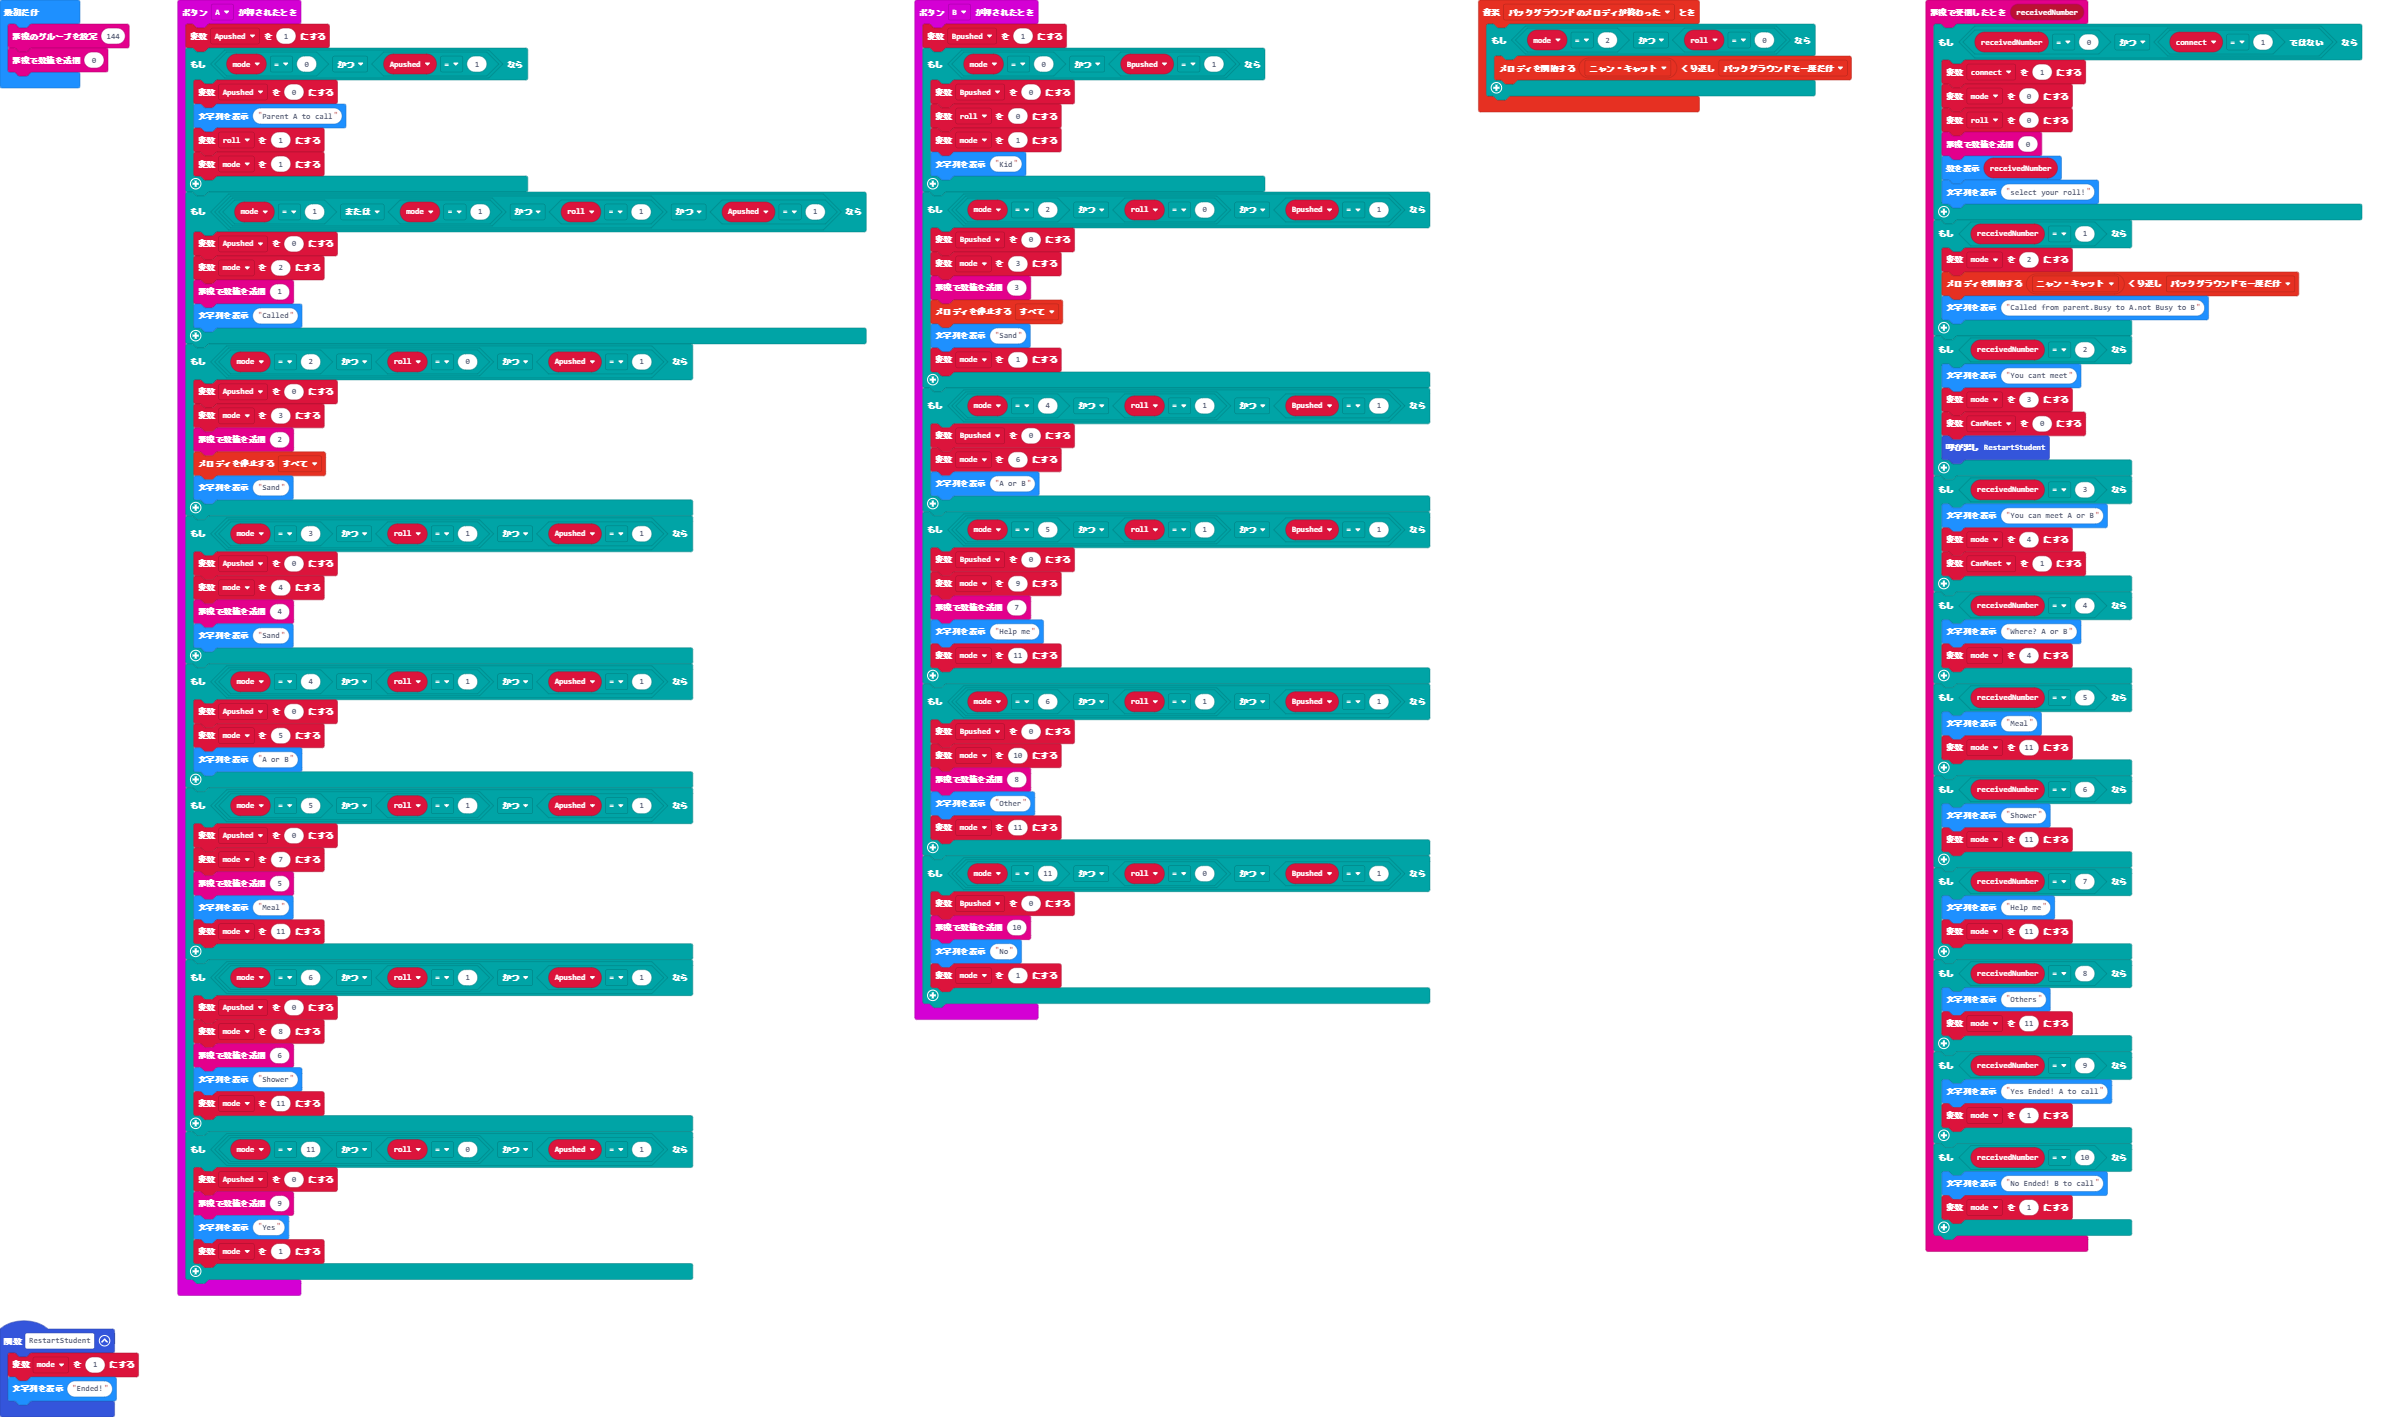
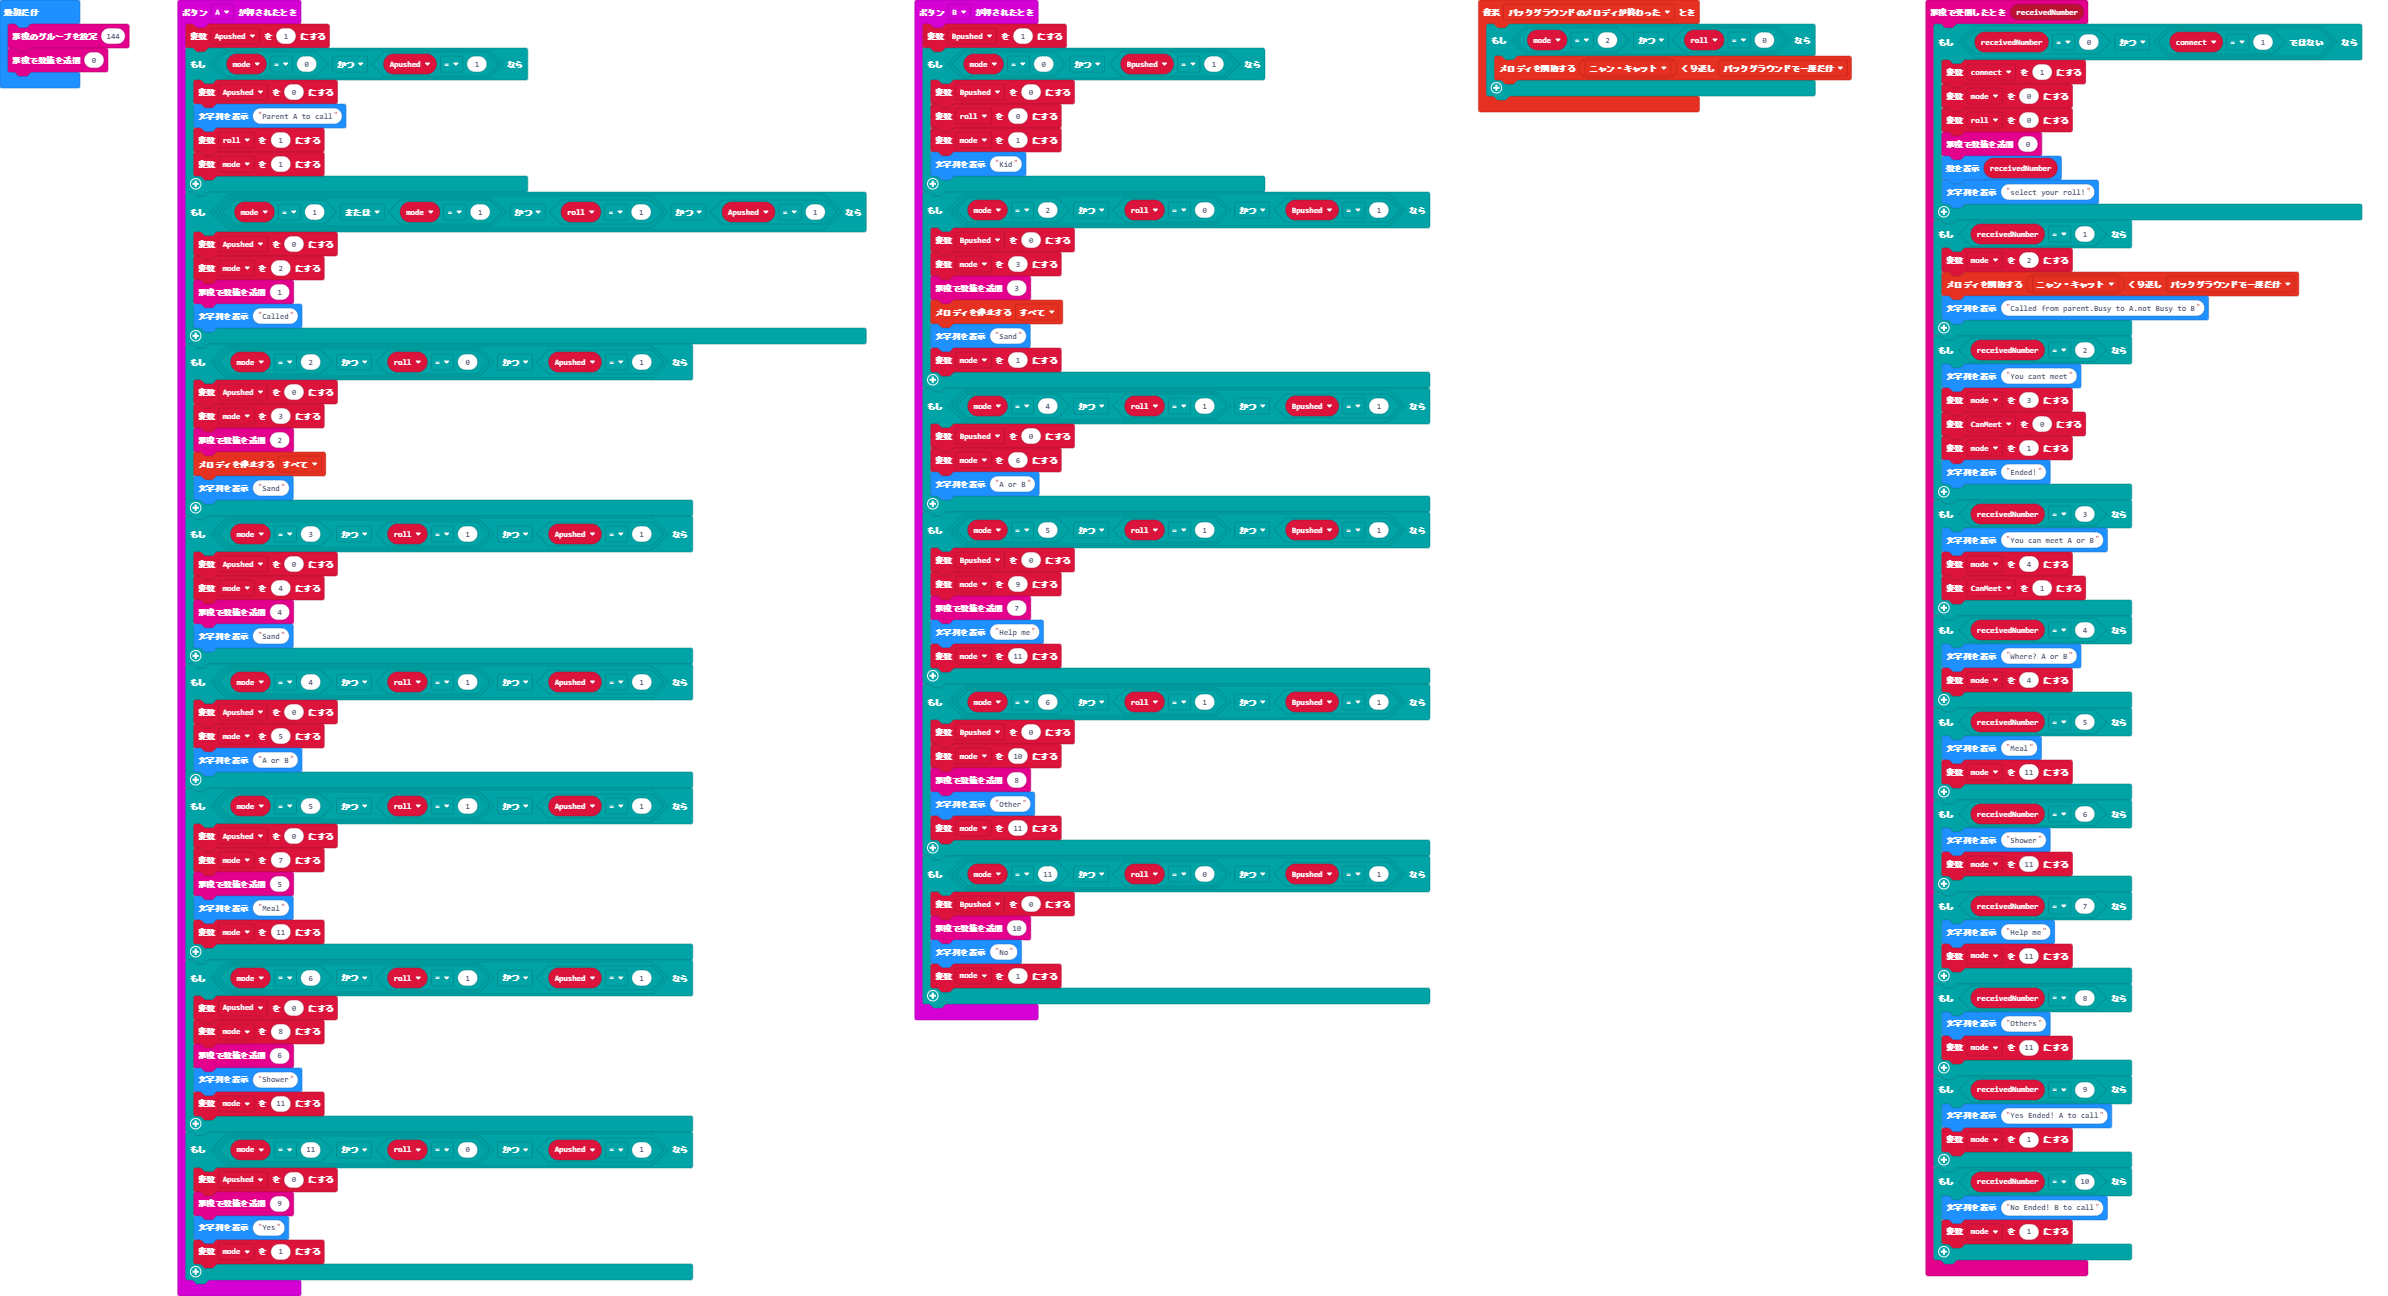
更新 main.blocks, main.ts

Changed region(s): [[0.0, 0.0, 0.6198, 1.0], [0.8057, 0.0, 0.9916, 0.9877], [0.6198, 0.0, 0.7747, 0.0926]]

diff --git a/main.ts b/main.ts
@@ -16,7 +16,8 @@ radio.onReceivedNumber(function (receivedNumber) {
         basic.showString("You cant meet")
         mode = 3
         CanMeet = 0
-        RestartStudent()
+        mode = 1
+        basic.showString("Ended!")
     }
     if (receivedNumber == 3) {
         basic.showString("You can meet A or B")
@@ -52,10 +53,6 @@ radio.onReceivedNumber(function (receivedNumber) {
         mode = 1
     }
 })
-function RestartStudent () {
-    mode = 1
-    basic.showString("Ended!")
-}
 input.onButtonPressed(Button.A, function () {
     Apushed = 1
     if (mode == 0 && Apushed == 1) {
